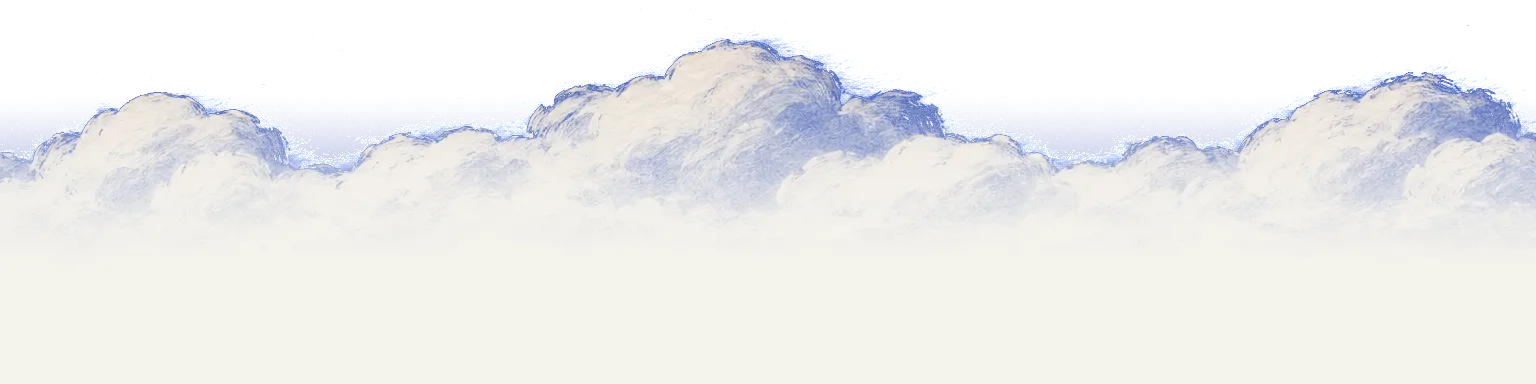
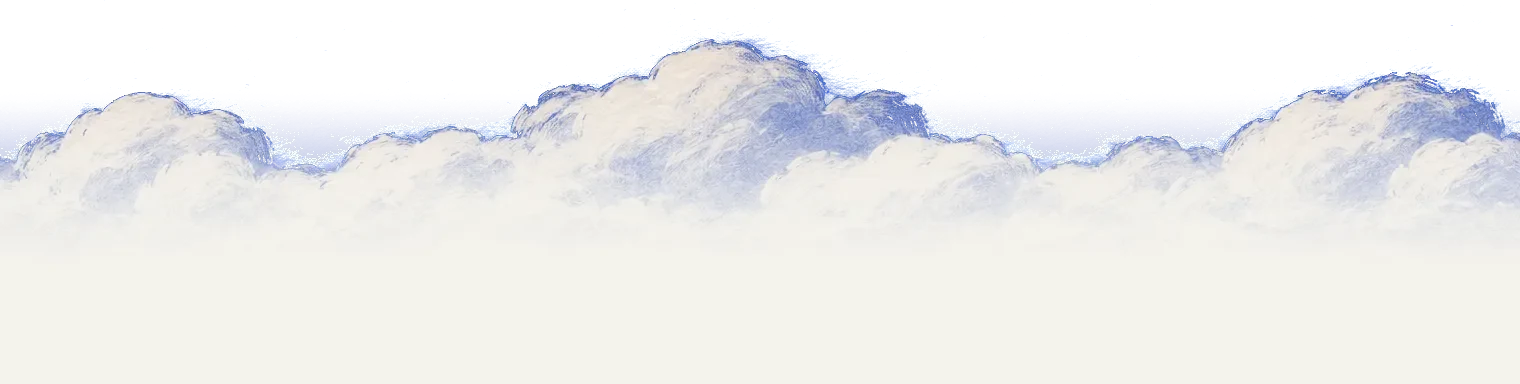
Prototype heroes: Cloud, its foot into the band's paper
The cloud's foot thins into the paper of the Runs on band, and the bank,
trimmed of its painted margin, runs past both edges, so no seam shows.

diff --git a/apps/site/src/home/looks/heroes/Cloud.module.css b/apps/site/src/home/looks/heroes/Cloud.module.css
@@ -28,9 +28,11 @@
 
 /* The cloud sea, its sky melting into the sky above it; and the bank in front of it, nearer. */
 .sea, .bank { position: absolute; left: 50%; display: block; height: auto; pointer-events: none; transform: translate3d(-50%, 0, 0); will-change: transform; }
-.sea { bottom: -14cqh; width: max(100cqw, 1200px); -webkit-mask: linear-gradient(transparent, #000 30%); mask: linear-gradient(transparent, #000 30%); }
-.bank { bottom: -2px; width: max(100cqw, 900px); }
+.sea { bottom: -14cqh; width: max(106cqw, 1200px); -webkit-mask: linear-gradient(transparent, #000 30%); mask: linear-gradient(transparent, #000 30%); }
+.bank { bottom: -2px; width: max(106cqw, 900px); }
 .hero[data-settled] :is(.sea, .bank) { will-change: auto; }
+/* The cloud's foot thinning into the paper of the band below, so the band is what the cloud gives on to. */
+.foot { position: absolute; left: 0; right: 0; bottom: -2px; height: 15cqh; background: linear-gradient(rgba(244, 242, 236, 0), rgba(244, 242, 236, 0.72) 58%, var(--paper)); }
 
 /* The night over it all at first, lifting as the capsule comes down. */
 .night { position: absolute; inset: 0; background: #04061a; will-change: opacity; }

diff --git a/apps/site/src/home/looks/heroes/Cloud.tsx b/apps/site/src/home/looks/heroes/Cloud.tsx
@@ -294,6 +294,7 @@ export function CloudHero({ nav }: { nav?: ReactNode }) {
         <div className={s.sky} aria-hidden="true" />
         <img ref={sea} className={s.sea} src={seaUrl} alt="" aria-hidden="true" decoding="async" />
         <img ref={bank} className={s.bank} src={bankUrl} alt="" aria-hidden="true" decoding="async" />
+        <div className={s.foot} aria-hidden="true" />
         <div ref={night} className={s.night} aria-hidden="true" />
         <div ref={heat} className={s.heat} aria-hidden="true" />
         <div ref={flash} className={s.flash} aria-hidden="true" />
